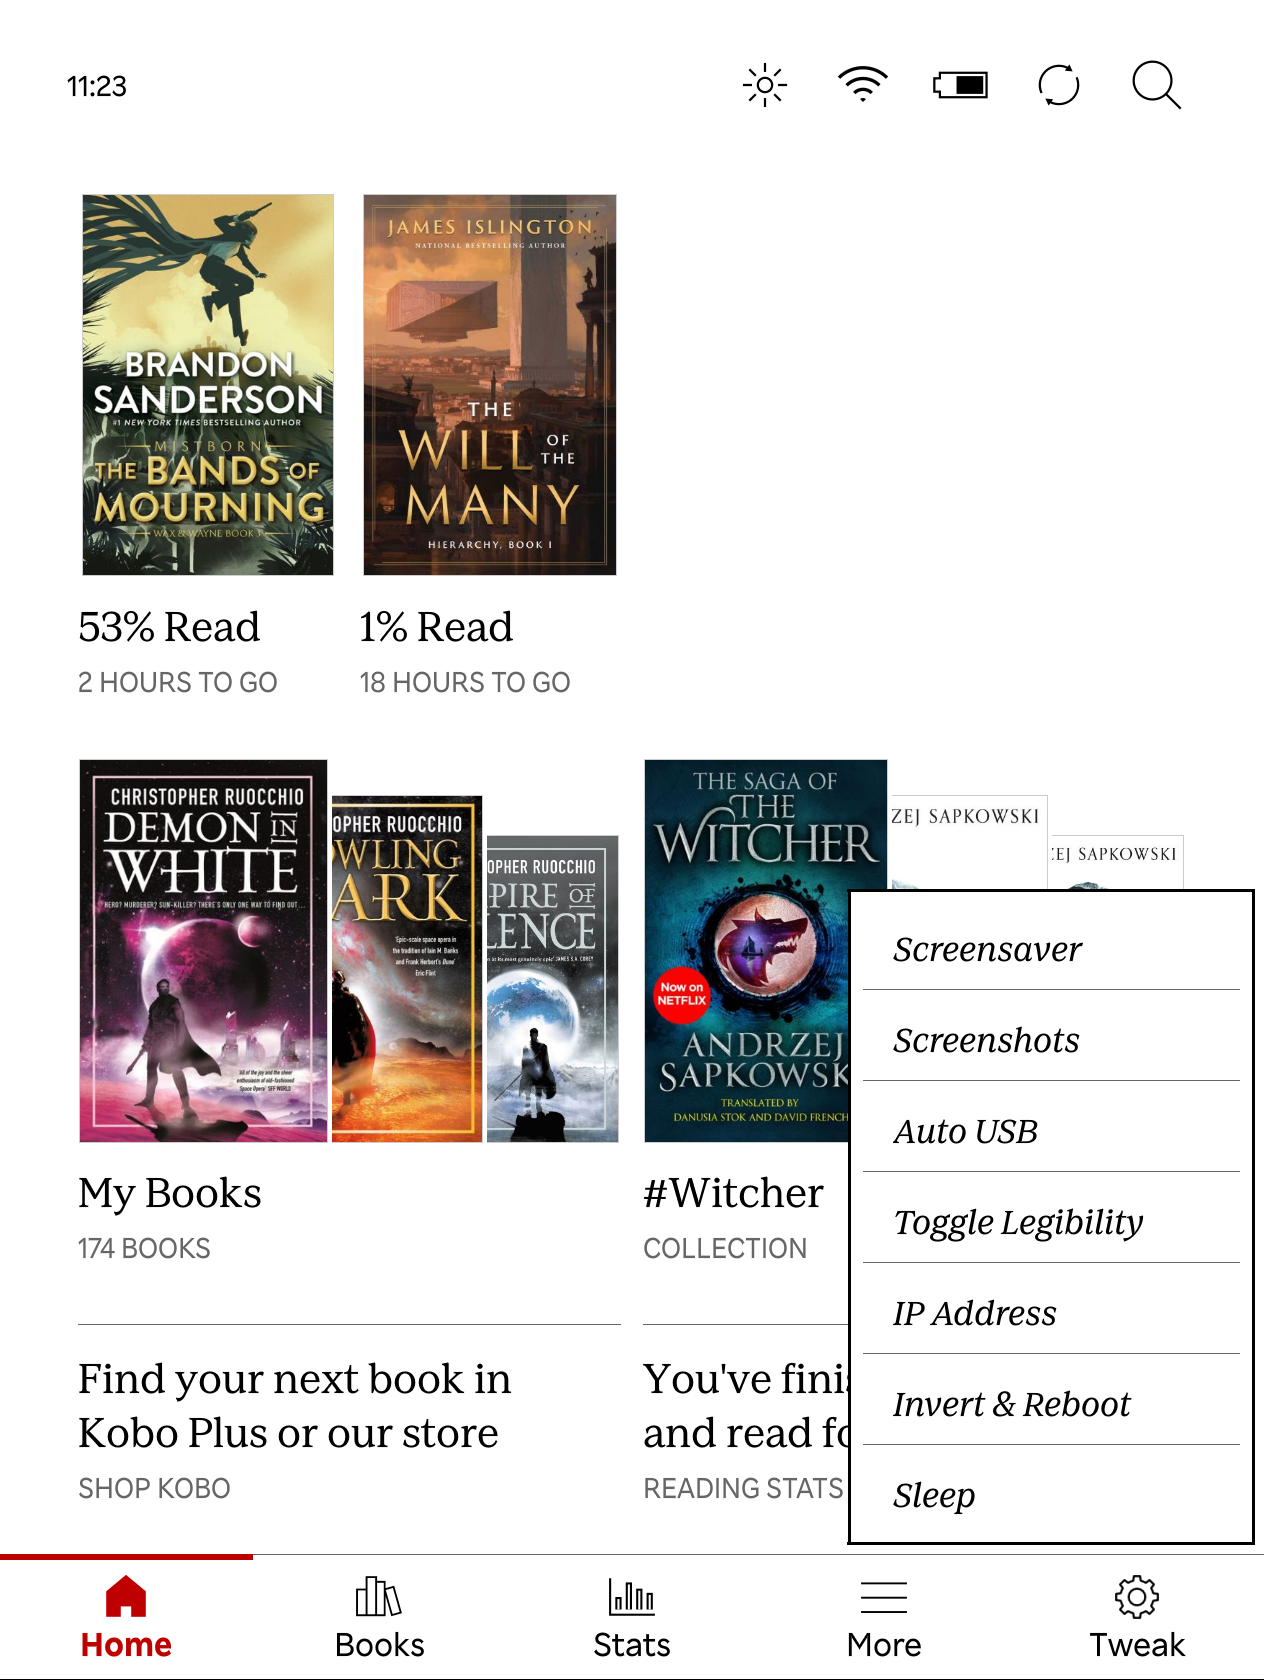
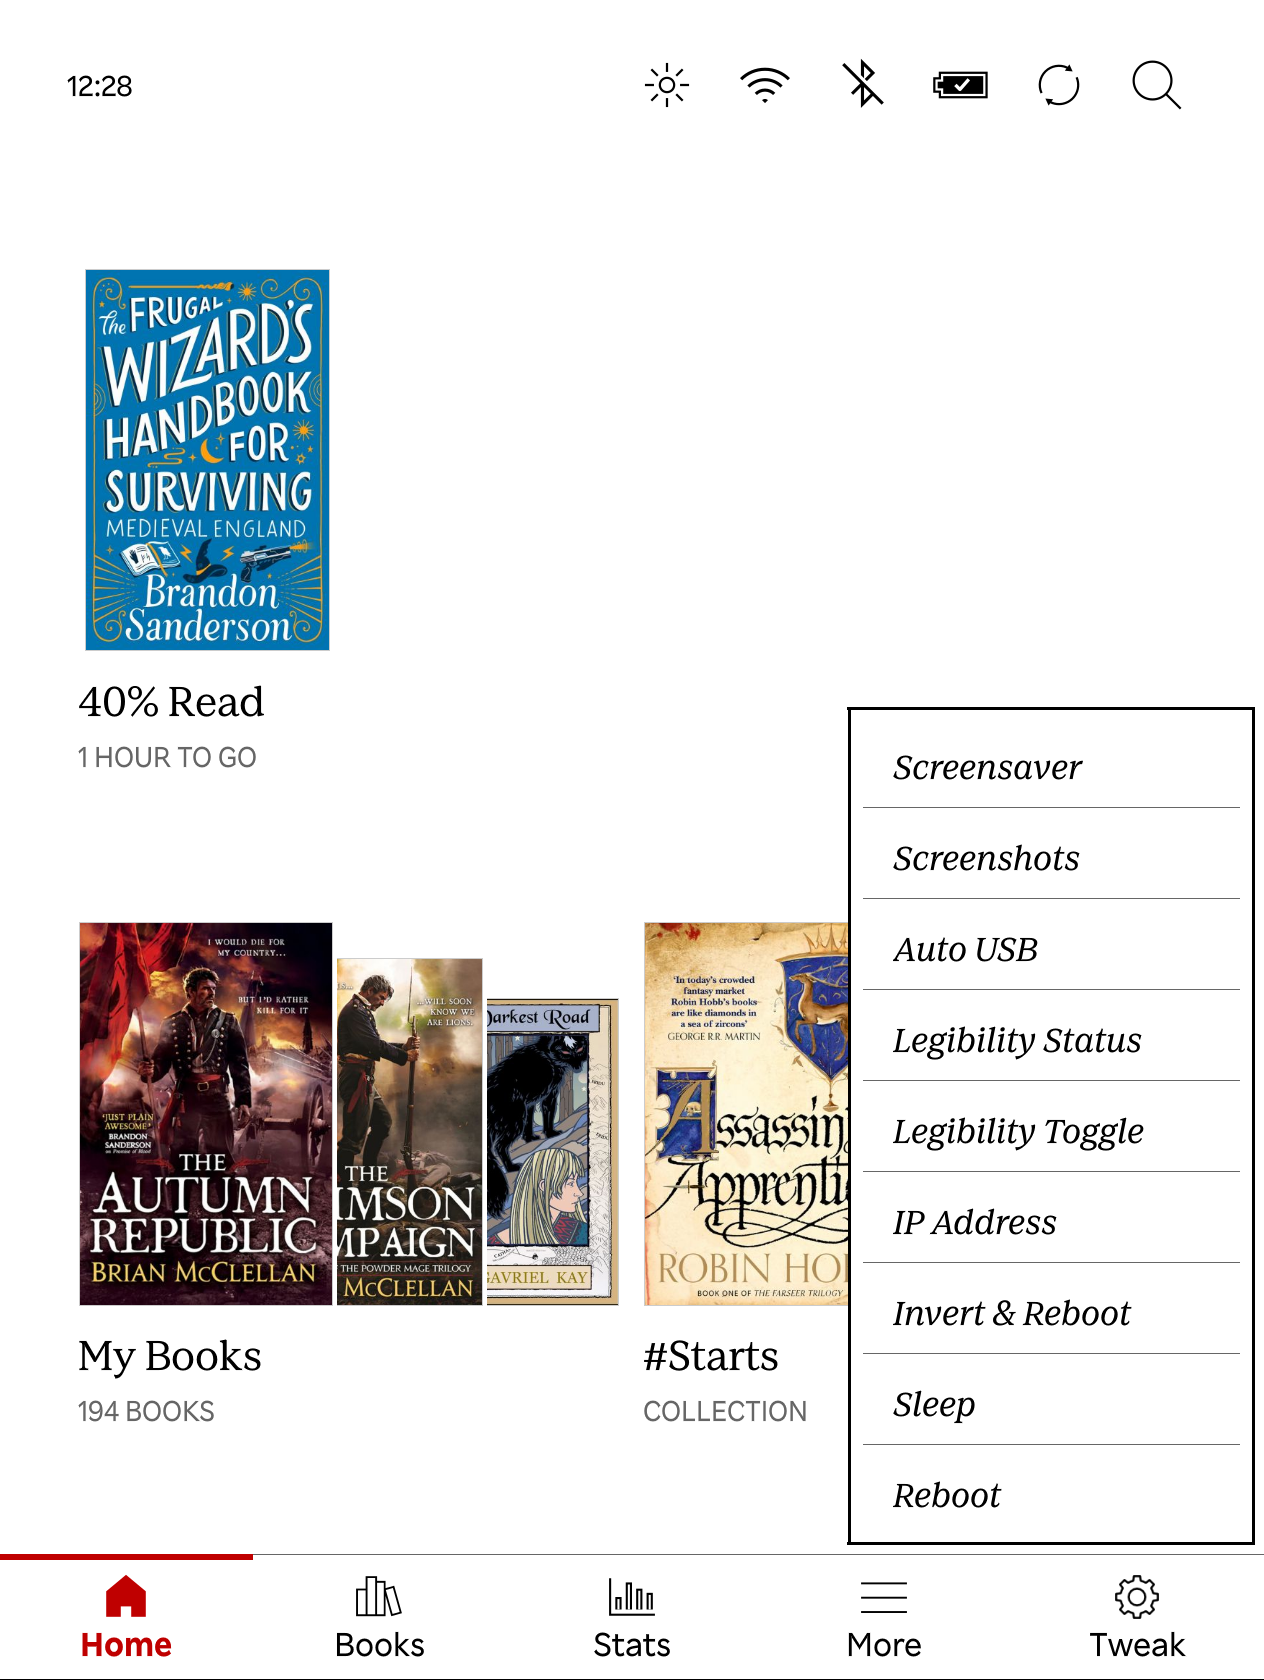
Various updates
- Add Legibility Status
- Updated Legibility Toggle
- Added copy_mac.sh setup script
- Updated README

diff --git a/README.md b/README.md
@@ -2,46 +2,80 @@
 
 ## What is this?
 
-This repository helps you set up your Kobo just like I set up mine. Take a look!
+This repository helps you set up your Kobo just like I set up mine, which includes **some power user features**, and also some useful features. For example, support for **screensavers** and an **easy dark mode toggle** for when you're reading. Take a look!
 
 <kbd><img src="./screenshot.png" width="500px"></kbd>
 
-## What are the tweaks?
+### Tweaked tabs
 
-- Tweaked **tab layout**!
-    - My Books and My Notebooks are now "Books" and "Notes".
-    - The Activity tab is now also visible as "Stats".
-    - (Notes and Discover tabs are hidden by default, but can be re-enabled.)
-    - Note: This is only available with the latest version of NickelMenu, which I included in the repository.
+> Less store, more of your books and stuff.
+
+- My Books and My Notebooks are now **Books** and **Notes**.
+- The Activity tab is now also visible as **Stats**.
+- Notes and Discover tabs are **hidden** by default, but can be re-enabled.
+
+### Custom menu items
+
+> Power user stuff for typography lovers.
+
+- **Screensaver**: Toggles the screensaver by moving the `.kobo/screensaver` folder. The repository comes with a nice moon screensaver, but you can add your own.
+- **Screenshots**: Toggles taking screenshots with the power button. After taking screenshots, take care to remember to turn this back off...
+- **Auto USB**: Toggles automatic USB connection. Helpful if you connect to your computer frequently, and don't want to keep approving the connection.
+- **Legibility Status**: Shows the current status of the legibility toggle.
+- **Legibility Toggle**: Toggles the experimental WebKit rendering feature, which enables rendering of ligatures. Since this causes issues w/ justified text rendering in `kepubs` this is a toggle. This will also briefly reboot your device!
+- **IP Address**: If connected to WiFi, displays your IP address.
+- **Invert & Reboot**: Inverts the colors of the entire display and reboots the device.
+- **Sleep**: Does the same as pressing the power button.
+- **Reboot**: Does the same as pressing the power button for a few seconds.
+
+### Reader & menu
+
+- In the reader menu, a **Dark Mode** toggle has also been added. You can press the ... (ellipsis menu) to see this option when reading. (You no longer need to dig into settings to toggle this!)
 - Added **customized fonts**.
-- Tweak tab with various options:
-    - **Screensaver**: Toggles the screensaver by moving the `.kobo/screensaver` folder. The repository comes with a nice moon screensaver, but you can add your own.
-    - **Screenshots**: Toggles taking screenshots with the power button. Take care to disable this timely or you may encounter issues w/ waking up the device.
-    - **Auto USB**: Toggles automatic USB connection. Helpful if you connect to your computer frequently, and don't want to keep approving the connection.
-    - **Toggle Legibility**: Toggles the experimental WebKit rendering feature, which enables rendering of ligatures. Since this causes issues w/ justified text rendering in `kepubs` this is a toggle. This will also briefly reboot your device!
-    - **IP Address**: If connected to WiFi, displays your IP address.
-    - **Invert & Reboot**: Inverts the colors of the entire display and reboots the device.
-    - **Sleep**: Does the same as pressing the power button.
-    - **Reboot**: Does the same as pressing the power button for a few seconds.
-- In the reader menu, a **Dark Mode** toggle has also been added. You can press the ... (ellipsis menu) to see this option when reading. You no longer need to dig into settings to toggle this!
 
-## Installation Guide
+## Installing NickelMenu
 
-### NickelMenu
+**NickelMenu must be installed for all of these changes to work correctly.** 
 
-First, install the latest version of [NickelMenu](https://pgaskin.net/NickelMenu/).
+First, install the latest version of [NickelMenu](https://pgaskin.net/NickelMenu/). Keep in mind that you will need at least version 0.6 of NickelMenu installed in order to have customized menu items.
 
-You will need at least version 0.6 of NickelMenu installed in order to have customized menu items.
+To install NickelMenu, copy `.kobo/KoboRoot.tgz` to the `.kobo` folder on your Kobo, and let your e-reader reboot. (It should tell you that it's installing an update and reboot.)
 
-To install NickelMenu, copy `.kobo/KoboRoot.tgz` to your device in the same folder and let your device reboot.
+## Quick Setup (Mac)
+
+Once NickelMenu is installed, you can use the script I've added to the repository. Connect your Kobo to your Mac via USB, then run:
+
+```sh
+./copy_mac.sh
+```
+
+This will copy over `.adds`, `.kobo`, and `fonts` (if the fonts folder on the device is empty), clean up macOS resource fork files, optionally set `ExcludeSyncFolders` (for KOReader/Calibre users), and eject the device.
+
+## Manual Setup
+
+Before you begin, make sure to show hidden files and folders in your file manager, because the `.adds` and `.kobo` folders are hidden by default.
+
+### Installing menu items
 
 Copy the `.adds` directory to the root of your `KOBOeReader` volume. This is the configuration for NickelMenu.
 
+### Fonts
+
+Copy the `fonts` directory and any extra fonts you like over. 
+
+If you like what you're seeing, you can find [more fonts](https://github.com/nicoverbruggen/ebook-fonts/releases) in my other repository.
+
+(I recommend getting the Kobo Core fonts, since this repository only includes a Kobo-optimized version of Readerly.)
+
+### Screensaver
+
+You can copy the screensaver from `.kobo/screensaver` into the same folder on your Kobo device. You can toggle this feature via the **Tweak** tab (the custom NickelMenu tab at the bottom of the home screen).
+
+## Additional tweaks
+
 ### Separating Kobo and KOReader libraries
 
-#### Ensuring this works
-
-Ensure your Kobo doesn't scan certain directories! Important if you want to use KOReader. 
+You tend to have the best experience if your Kobo doesn't scan certain directories! Important if you want to use KOReader or store other files that you don't want to appear in your library as "books".
 
 To do this, add the following block to the `.kobo/Kobo/Kobo eReader.conf` file:
 
@@ -56,20 +90,38 @@ ExcludeSyncFolders=(calibre|\\.(?!kobo|adobe|calibre).+|([^.][^/]*/)+\\..+)
 
 ### KOReader
 
-If you want an alternative reading experience, this is the way to go, and a great combinatio with Calibre.
+If you want an alternative reading experience, this is the way to go, and a great combination with Calibre.
 
 Install the latest release of `KOReader`. You can [download it here](https://github.com/koreader/koreader/releases).
 
 Follow the instructions carefully. **You will also need to add a new item to `.adds/nm/items` to launch KOReader via the Tweak menu!**
 
-### Fonts
+### Custom patches
 
-Copy the `fonts` directory and any extra fonts you like over. 
+In my screenshot above, I've disabled the 3rd row on the homescreen. This is accomplished via a custom patch to the system software.
 
-If you like what you're seeing, you can find [more fonts](https://github.com/nicoverbruggen/ebook-fonts/releases) in my other repository.
+You can usually find a `zip` with [patches on the MobileRead forums](https://www.mobileread.com/forums/forumdisplay.php?f=247). You can search for "Patches for Firmware" and then the version number of your firmware. (At the time of writing this, for example, [this](https://www.mobileread.com/forums/showthread.php?t=372436) is the latest thread for the Libra Color, Clara BW and Clara Color, but you **should always use patches for your Kobo's version number**.)
 
-(I recommend getting the Kobo Core fonts, since this repository only includes a Kobo-optimized version of Readerly.)
+A few important notes:
 
-### Screensaver
+- Unlike the other tweaks, I recommend double checking everything here. Keep reading why.
+- You must first note what operating system version you are using.
+- You can then download a copy of the software via [the `kobofirmware` page kindly set up by Patrick Gaskin](https://pgaskin.net/KoboStuff/kobofirmware.html). 
+- **Make sure to download the correct version for your device, or you risk bricking your device!**
+- You can then apply patches via the patcher. For up-to-date instructions, use the `readme.txt` from the `zip` you got from MobileRead.
+- If you upgrade your system software (which may happen automatically) you will need to fetch the updated patches `zip` from MobileRead, and re-apply those patches again.
 
-You can copy the screensaver from `.kobo/screensaver` into the same folder on your Kobo device. You can toggle this feature via the Tweak menu.
+If you're curious about what tweak I use... For example, the `kobopatch.yaml` config file can look like this:
+
+```yaml
+overrides:
+  src/nickel.yaml:
+    Remove footer (row3) and increase cover size on new home screen: no
+    Remove footer (row3) on new home screen: yes # <--- I changed this!
+```
+
+To get the result in the screenshot above -- the removed third row, all it takes is modifying that single line and applying the patches.
+
+After adjusting the overrides, you can copy the firmware file to `src` and run the script. 
+
+Again, please follow the up-to-date instructions in `readme.txt`. Once `KoboRoot.tgz` has been successfully generated, you can copy it to the `.kobo` folder on your device and those patches will be applied.
